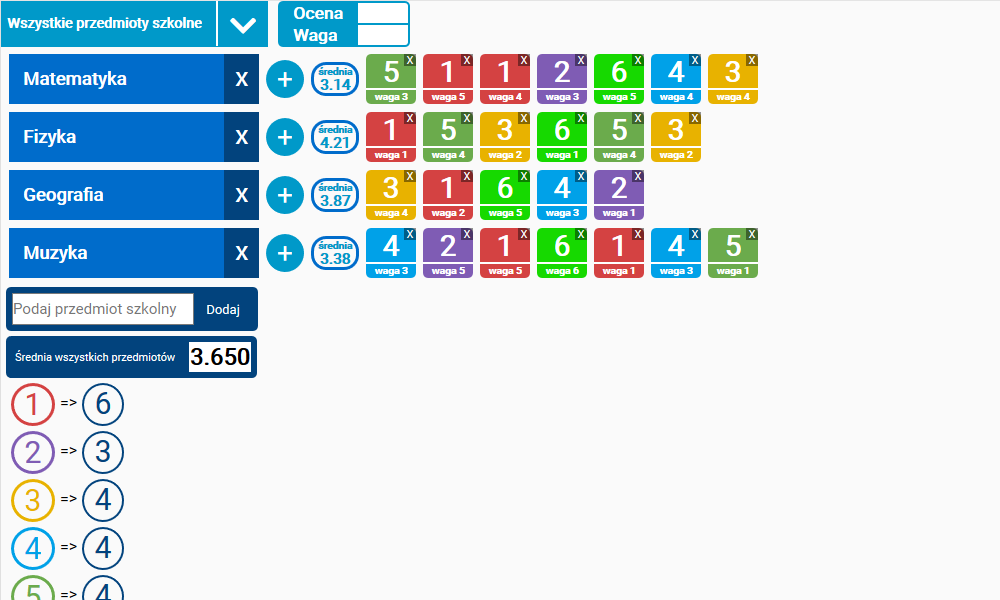
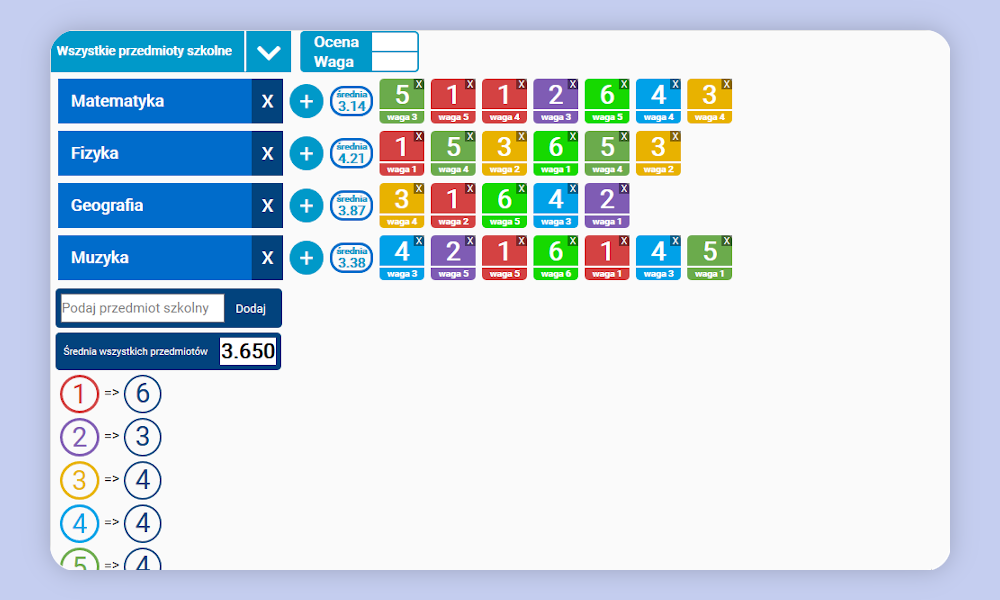
Zmiana img

diff --git a/style.scss b/style.scss
@@ -551,12 +551,13 @@ header {
                 width: 500px;
                 background-color: white;
                 margin: 11px;
-                box-shadow: 0px 0px 33px 0px rgba(216, 216, 216, 0.75);  
+                // box-shadow: 0px 0px 33px 0px rgba(216, 216, 216, 0.75);  
                 position: relative;
                 .tiles-img {
                     img {
                         height: 100%;
                         width: 100%;
+                        border-radius: 14px;
                     }
                 }
                 .tiles-hover {
@@ -585,14 +586,14 @@ header {
                 }
                 .tiles-icon {
                     display: flex;
-                    justify-content: space-evenly;
+                    justify-content: flex-end;
                     .tiles-icon {
-                        margin: 10px;
+                        margin: 6px;
                         border: none;
                         background-color: rgba(255, 255, 255, 0);
                         cursor: pointer;
                         span {
-                            font-size: 23px;
+                            font-size: 20px;
                             color: #2c2c51;
                         }
                         a {

diff --git a/style.css b/style.css
@@ -713,14 +713,13 @@ header .header-content .call-to-action a {
   width: 500px;
   background-color: white;
   margin: 11px;
-  -webkit-box-shadow: 0px 0px 33px 0px rgba(216, 216, 216, 0.75);
-          box-shadow: 0px 0px 33px 0px rgba(216, 216, 216, 0.75);
   position: relative;
 }
 
 .portfolio .portfolio-container .tiles-container .tiles .tiles-img img {
   height: 100%;
   width: 100%;
+  border-radius: 14px;
 }
 
 .portfolio .portfolio-container .tiles-container .tiles .tiles-hover {
@@ -755,20 +754,20 @@ header .header-content .call-to-action a {
   display: -webkit-box;
   display: -ms-flexbox;
   display: flex;
-  -webkit-box-pack: space-evenly;
-      -ms-flex-pack: space-evenly;
-          justify-content: space-evenly;
+  -webkit-box-pack: end;
+      -ms-flex-pack: end;
+          justify-content: flex-end;
 }
 
 .portfolio .portfolio-container .tiles-container .tiles .tiles-icon .tiles-icon {
-  margin: 10px;
+  margin: 6px;
   border: none;
   background-color: rgba(255, 255, 255, 0);
   cursor: pointer;
 }
 
 .portfolio .portfolio-container .tiles-container .tiles .tiles-icon .tiles-icon span {
-  font-size: 23px;
+  font-size: 20px;
   color: #2c2c51;
 }
 
